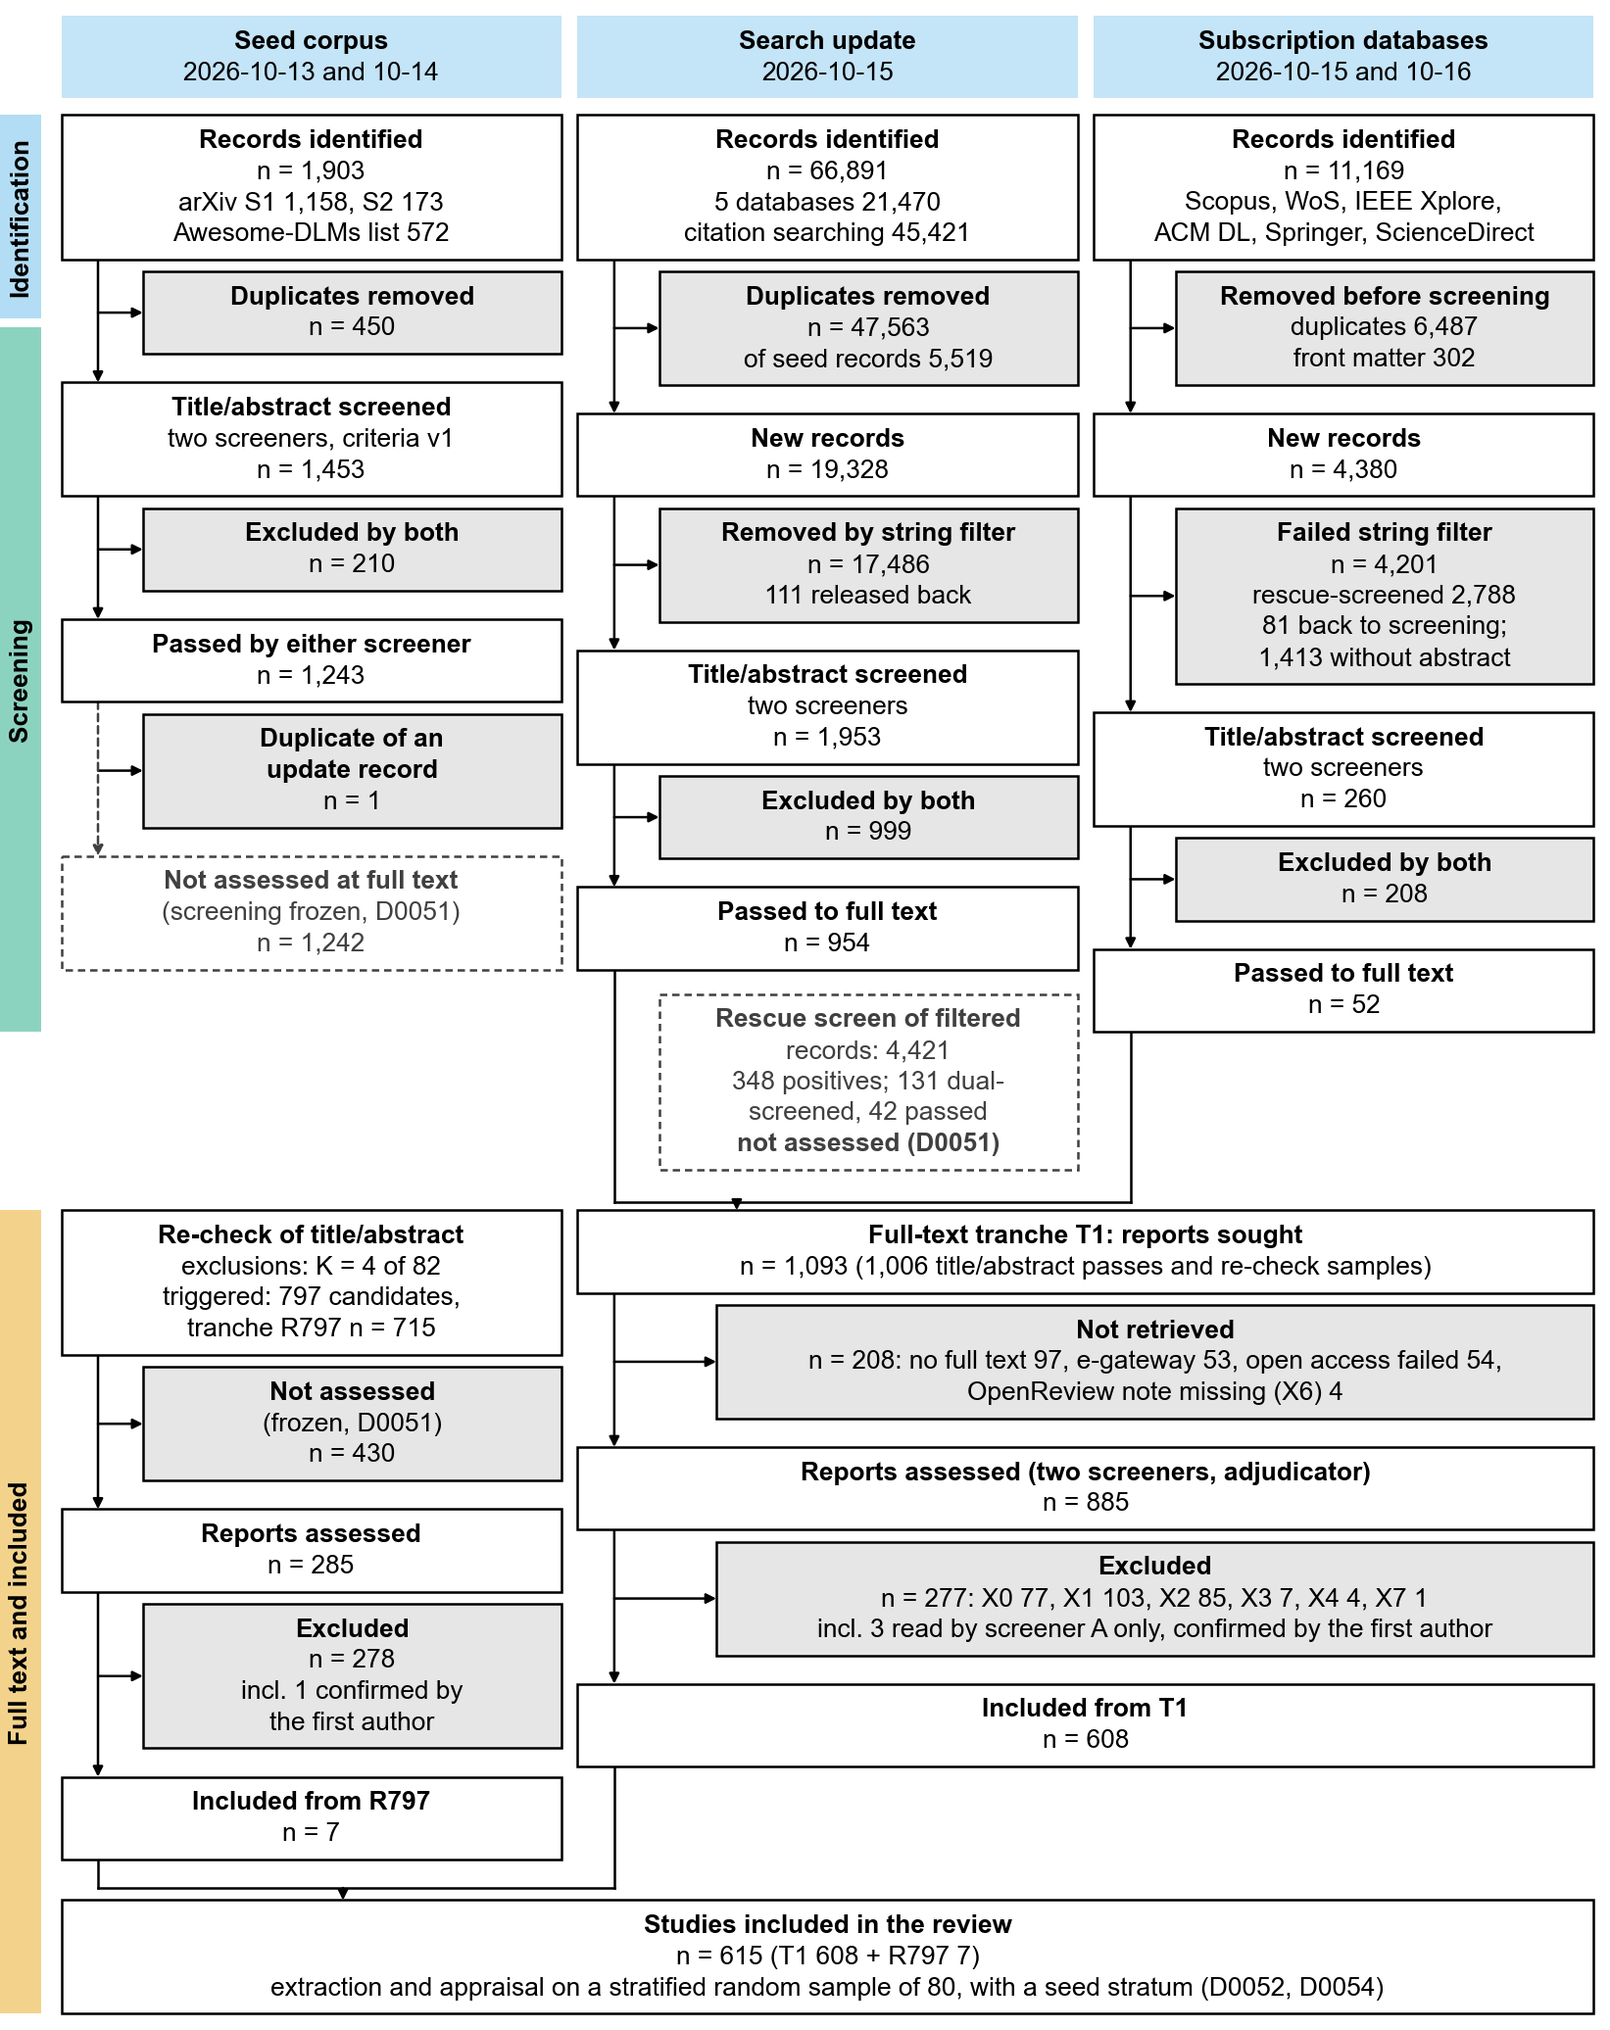
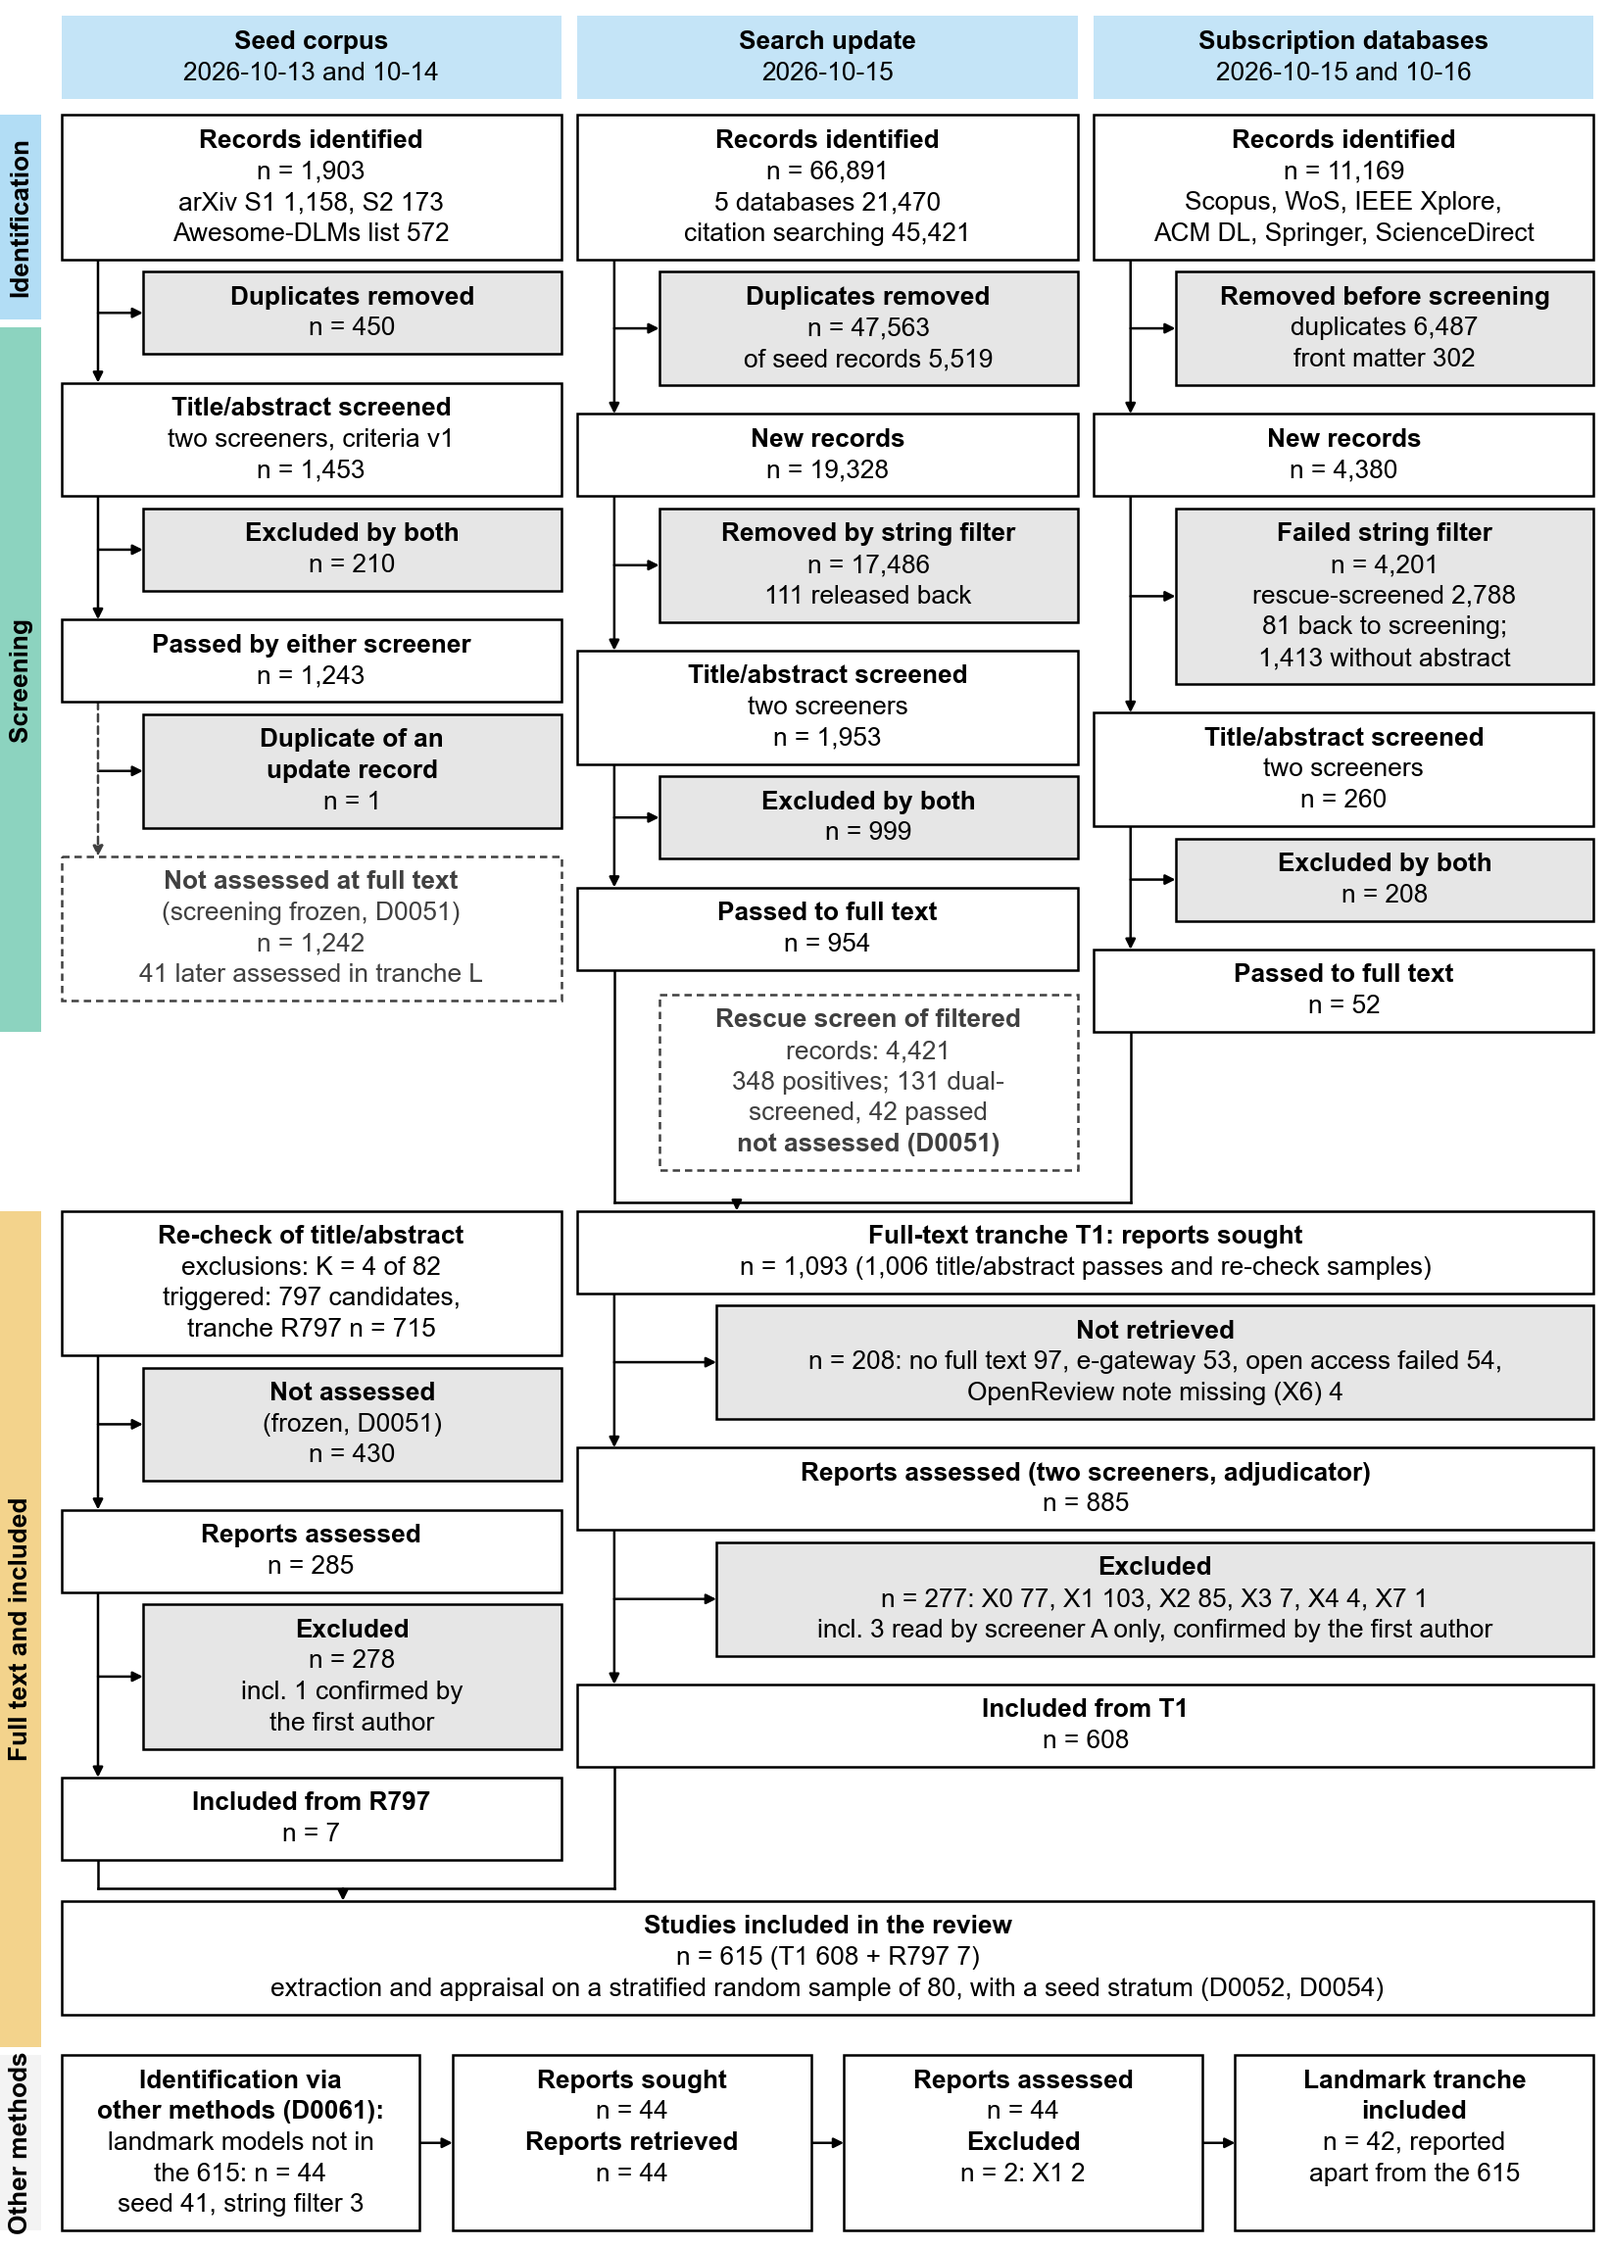
PRISMA flow and Figure 1: landmark tranche L as identification via other methods (44 identified, 44 retrieved and assessed, 42 included, 2 excluded X1); S1243 box notes 41 later assessed in L; existing counts unchanged

diff --git a/analysis/prisma/prisma_flow.py b/analysis/prisma/prisma_flow.py
@@ -133,8 +133,11 @@ F["subscription"] = {"identified_by_database": pr["by_database"], "identified": 
 ft = {r["id"]: r for r in jl(REV / "fulltext/ft-routes.jsonl")}
 extra = {r["id"]: r for r in jl(SCR / "ft-routes-extra.jsonl")}
 fetch, got = {}, set()                 # last fetch status; ids with a PDF and its converted text
+fetch_pre_freeze = {}                  # fetches before the D0051 freeze (the landmark tranche fetched on 2026-10-21)
 for r in jl(REV / "fulltext/fetch-log.jsonl"):
     fetch[r["id"]] = r["status"]
+    if r.get("ts", "") < "2026-10-21":
+        fetch_pre_freeze[r["id"]] = r["status"]
     if r["status"] == "ok" and (ROOT / f"research/sources/md/fulltext-pymupdf/{r['id']}.txt").exists():
         got.add(r["id"])
 t1 = {r["id"]: r for r in jl(SCR / "ft-t1/t1-decisions-all.jsonl")}
@@ -272,7 +275,7 @@ rf_noabs = jl(REV / "screening/v2/dual-rescue-free/pending-no-abstract-rf.jsonl"
 rf_dual = {r["id"] for p in sorted((REV / "screening/v2/dual-rescue-free").glob("screener-A-batch-rf-*.jsonl")) for r in jl(p)}
 F["not_screened_D0051"] = {
     "seed_tranche_S1243_D0037": {"frame": len(s1243), "full_text_screened": 0,
-                                 "pdfs_downloaded_before_freeze": sum(1 for i in s1243 if fetch.get(i) == "ok")},
+                                 "pdfs_downloaded_before_freeze": sum(1 for i in s1243 if fetch_pre_freeze.get(i) == "ok")},
     "R797_remainder": sum(r797_rem.values()),
     "free_source_rescue_positives_D0036": {"positives": len(r2_pos), "dual_ta_screened": len(rf_dual),
                                            "dual_ta_pass": len(rf_pass), "pass_full_text_screened": 0,
@@ -280,6 +283,37 @@ F["not_screened_D0051"] = {
     "note": "reported in the PRISMA flow as identified but not screened (time and resource limit), with a limitation "
             "paragraph; the re-check reversal rule (criteria v1.6 s5.2, K = 4) is reported as triggered and only partly "
             "executed (D0051)"}
+
+# ---------------------------------------------------------------- landmark tranche L (D0061), other methods
+# Targeted, non-systematic: the design-space models (research/review/coverage/design-space-v1.csv) whose papers are not
+# among the 615 includes; screened at full text with criteria v1.6 and the T1 procedure. Reported in PRISMA 2020's
+# "identification via other methods" column; the 615 and the frozen sets above are unchanged.
+LM = SCR / "landmark"
+lframe = jl(LM / "landmark-frame.jsonl")
+ltr = [r for r in lframe if not r["covered_615"]]
+lids = [r["tranche_record"] for r in ltr]
+ldec = {r["id"]: r for r in jl(SCR / "ft-lmk/lmk-decisions-all.jsonl")}
+lsum = jload(SCR / "ft-lmk/lmk-summary-all.json")
+lconv = {}
+for r in jl(REV / "fulltext/convert-pymupdf-log.jsonl"):
+    if r.get("tranche") == "L":
+        lconv[r["id"]] = r["status"]
+prior = collections.Counter(r["status"].get(r["tranche_record"], "none") for r in ltr)
+F["landmark_tranche_D0061"] = {
+    "frame_models": len(lframe), "models_already_included_615": sum(r["covered_615"] for r in lframe),
+    "identified": len(lids), "identified_from_unscreened_seed_S1243": prior.get("S1243_not_screened", 0),
+    "identified_removed_by_string_filter_D0026": sum(1 for r in ltr if r["status"].get(r["tranche_record"]) == "other"),
+    "reports_sought": len(lids), "reports_retrieved": sum(1 for i in lids if fetch.get(i) == "ok" and lconv.get(i) == "ok"),
+    "reports_assessed": len(ldec), "include": lsum["decision"].get("include", 0),
+    "exclude": lsum["decision"].get("exclude", 0), "exclude_codes": lsum["exclude_codes"],
+    "exclude_xsub": lsum["exclude_xsub"], "include_i1": lsum["include_i1"],
+    "include_nonlang_only": lsum["include_nonlang_only"], "agreement_A_B": lsum["agree_A_B"],
+    "adjudicated_by_C": lsum["adjudicated_by_C"],
+    "status": "targeted landmark tranche (D0061), other methods; not merged into the 615 included studies"}
+assert set(ldec) == set(lids) and len(lids) == len(set(lids))
+assert prior.get("S1243_not_screened", 0) + F["landmark_tranche_D0061"]["identified_removed_by_string_filter_D0026"] == len(lids)
+assert F["landmark_tranche_D0061"]["include"] + F["landmark_tranche_D0061"]["exclude"] == len(ldec)
+F["not_screened_D0051"]["seed_tranche_S1243_D0037"]["assessed_later_in_landmark_tranche_D0061"] = len(set(lids) & s1243)
 
 tq = {r["id"] for r in jl(REV / "screening/v2/title-resolved-queue.jsonl")}
 t1_prefix = collections.Counter(i[0] for i in t1)

diff --git a/paper/review/scripts/fig01_prisma.py b/paper/review/scripts/fig01_prisma.py
@@ -159,7 +159,8 @@ seed = [("main", [("Records identified", B), (f"n = {f(n['seed_id'])}", N_),
         ("main", [("Passed by either screener", B), (f"n = {f(sd['ta_pass_either'])}", N_)]),
         ("side", [("Duplicate of an", B), ("update record", B), (f"n = {f(n['seed_pass_not_in_frame'])}", N_)]),
         ("dashed", [("Not assessed at full text", B), ("(screening frozen, D0051)", N_),
-                    (f"n = {f(n['s1243'])}", N_)])]
+                    (f"n = {f(n['s1243'])}", N_),
+                    (f"{f(ns['seed_tranche_S1243_D0037']['assessed_later_in_landmark_tranche_D0061'])} later assessed in tranche L", N_)])]
 upd = [("main", [("Records identified", B), (f"n = {f(n['upd_id'])}", N_),
                  (f"5 databases {f(n['upd_db'])}", N_), (f"citation searching {f(n['upd_cit'])}", N_)]),
        ("side", [("Duplicates removed", B), (f"n = {f(n['upd_dup'])}", N_), (f"of seed records {f(fr['duplicates_against_seed_corpus'])}", N_)]),
@@ -235,6 +236,31 @@ cv.line((xL + VX, t1_bottom), (xL + VX, yInc - 3))
 cv.line((COLS[0] + VX, yInc - 3), (xL + VX, yInc - 3))
 cv.line((COLS[0] + VX + 60, yInc - 3), (COLS[0] + VX + 60, yInc), arrow=True)
 yEnd = cv.box(COLS[0], yInc, W - COLS[0] - 4, inc, "main")
+
+# ---------------------------------------------------------------- landmark tranche L (D0061): other methods, one row
+lt = F["landmark_tranche_D0061"]
+assert lt["identified"] == lt["identified_from_unscreened_seed_S1243"] + lt["identified_removed_by_string_filter_D0026"]
+assert lt["reports_assessed"] == lt["include"] + lt["exclude"] == sum(lt["exclude_codes"].values()) + lt["include"]
+assert lt["frame_models"] - lt["models_already_included_615"] == lt["identified"]
+n.update(lmk_identified=lt["identified"], lmk_assessed=lt["reports_assessed"], lmk_include=lt["include"])
+yL = yEnd + 10
+row = [[("Identification via", B), ("other methods (D0061):", B), ("landmark models not in", N_),
+        (f"the {f(n['included'])}: n = {f(lt['identified'])}", N_),
+        (f"seed {lt['identified_from_unscreened_seed_S1243']}, string filter {lt['identified_removed_by_string_filter_D0026']}", N_)],
+       [("Reports sought", B), (f"n = {f(lt['reports_sought'])}", N_), ("Reports retrieved", B), (f"n = {f(lt['reports_retrieved'])}", N_)],
+       [("Reports assessed", B), (f"n = {f(lt['reports_assessed'])}", N_), ("Excluded", B),
+        (f"n = {f(lt['exclude'])}: {codes(lt['exclude_codes'])}", N_)],
+       [("Landmark tranche", B), ("included", B), (f"n = {f(lt['include'])}, reported", N_), (f"apart from the {f(n['included'])}", N_)]]
+GAPX = 8
+BW = (W - COLS[0] - 4 - 3 * GAPX) / 4
+hmax = max(len(r) for r in row)
+for k, lines in enumerate(row):
+    x = COLS[0] + k * (BW + GAPX)
+    cv.box(x, yL, BW, lines + [("", N_)] * (hmax - len(lines)), "main")
+    if k:
+        cv.line((x - GAPX, yL + hb([0] * hmax) / 2), (x, yL + hb([0] * hmax) / 2), arrow=True)
+yEnd = yL + hb([0] * hmax)
+(FIGDIR / "fig01-prisma.log").write_text("\n".join(f"{k} = {v}" for k, v in n.items()) + "\n", encoding="utf8")
 H = yEnd + 4
 
 fig, ax = plt.subplots(figsize=(TEXTWIDTH_IN, H / 72))
@@ -275,5 +301,6 @@ def band(top, bot, label, colour):
 
 band(yI, yI + 50, "Identification", C["sky"])
 band(yI + 52, yS_end, "Screening", C["green"])
-band(yT, yEnd, "Full text and included", C["orange"])
+band(yT, yL - 2, "Full text and included", C["orange"])
+band(yL, yEnd, "Other methods", C["lightgrey"])
 save(fig, "fig01-prisma")

diff --git a/analysis/prisma/prisma-flow.md b/analysis/prisma/prisma-flow.md
@@ -137,7 +137,7 @@ Generated by `analysis/prisma/prisma_flow.py`; every number is read from the fil
 | agreement_pass_exclude_raw | 0.9613 |
 | agreement_pass_exclude_ac1 | 0.9571 |
 | identified_not_screened_D0051 | 430 |
-| identified_not_screened_by_status | {"open_access_not_retrieved_error": 41, "e_gateway_not_retrieved": 123, "retrieved_not_screened": 216, "open_access_not_retrieved_not_pdf": 47, "no_identifier": 2, "open_access_not_retrieved_wrong_pdf": 1} |
+| identified_not_screened_by_status | {"open_access_not_retrieved_error": 41, "e_gateway_not_retrieved": 123, "open_access_not_retrieved_not_pdf": 47, "retrieved_not_screened": 216, "open_access_not_retrieved_wrong_pdf": 1, "no_identifier": 2} |
 | status | frozen by D0051 (2026-10-20): batches filed by the freeze; INTERIM: screened so far; A-B rows, C rulings filed so far; before the tranche gate audit and the human author review (protocol s4 step 4); not final |
 | resolved_B_unavailable_D0058 | ["R0308"] |
 | decided_incl_resolved | 285 |
@@ -149,10 +149,32 @@ Generated by `analysis/prisma/prisma_flow.py`; every number is read from the fil
 
 | box | n |
 |---|---|
-| seed_tranche_S1243_D0037 | {"frame": 1242, "full_text_screened": 0, "pdfs_downloaded_before_freeze": 276} |
+| seed_tranche_S1243_D0037 | {"frame": 1242, "full_text_screened": 0, "pdfs_downloaded_before_freeze": 276, "assessed_later_in_landmark_tranche_D0061": 41} |
 | R797_remainder | 430 |
 | free_source_rescue_positives_D0036 | {"positives": 348, "dual_ta_screened": 131, "dual_ta_pass": 42, "pass_full_text_screened": 0, "held_without_abstract_not_screened": 217} |
 | note | reported in the PRISMA flow as identified but not screened (time and resource limit), with a limitation paragraph; the re-check reversal rule (criteria v1.6 s5.2, K = 4) is reported as triggered and only partly executed (D0051) |
+
+## landmark_tranche_D0061
+
+| box | n |
+|---|---|
+| frame_models | 47 |
+| models_already_included_615 | 3 |
+| identified | 44 |
+| identified_from_unscreened_seed_S1243 | 41 |
+| identified_removed_by_string_filter_D0026 | 3 |
+| reports_sought | 44 |
+| reports_retrieved | 44 |
+| reports_assessed | 44 |
+| include | 42 |
+| exclude | 2 |
+| exclude_codes | {"X1": 2} |
+| exclude_xsub | {"nontext": 1, "theory-no-text": 1} |
+| include_i1 | {"b": 3, "a": 31, "ab": 8} |
+| include_nonlang_only | 0 |
+| agreement_A_B | 44 |
+| adjudicated_by_C | 0 |
+| status | targeted landmark tranche (D0061), other methods; not merged into the 615 included studies |
 
 ## open
 
